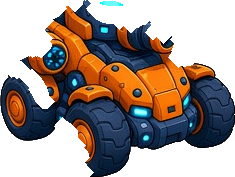
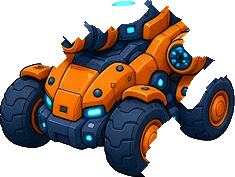
v44: remove code-drawn gun overlays on 성전차 sprites, bullets from sprite cannon tip, unified left-art facing (Lv1-20), Lv1 bigger / robot 27% smaller, remove dashed ring

diff --git a/index.html b/index.html
@@ -305,7 +305,7 @@ function mountPos(k,i){const fw={x:Math.cos(P.ang),y:Math.sin(P.ang)},sd={x:-fw.
 function wUpd(dt){const cd=P.cdMul;
  for(const k in WP){const w=WP[k],L=w.lv,E=w.evo;w.cd-=dt;w.t+=dt;HITSRC=k;
   if(k==='mg')w.mf=Math.max(0,(w.mf||0)-dt);if(k==='mg'&&CAR==='flame')flameUpd(w,L,E,cd,dt);else if(k==='mg'&&w.cd<=0){const n=E?6:L;const ts=nearest(n,420);if(ts.length){w.cd=(E?.16:.42-L*.03)*cd;w.mf=.07;if(G.awk&&!G.robo){G.mfl=.07;const fx=Math.cos(P.ang),fy=Math.sin(P.ang);ts.forEach(t=>{for(const o of[-1,1]){const _t=armTip(o),px=_t.x,py=_t.y;const a=Math.atan2(t.y-py,t.x-px);BUL.push({x:px,y:py,vx:Math.cos(a)*760,vy:Math.sin(a)*760,d:((E?16:9)+L*3)*.55,life:.7,r:5,c:'#E97C29',cap:1,pierce:L-1+(E?1:0)+RK('ap'),src:'mg'});}});sndMG();}else
-   ts.forEach((t,i)=>{const p=E?mg3(i):mountPos('mg',i),a=Math.atan2(t.y-p.y,t.x-p.x)+rnd(-.05,.05);BUL.push({x:p.x,y:p.y,vx:Math.cos(a)*720,vy:Math.sin(a)*720,d:(E?16:9)+L*3,life:.7,r:4*WSZ()*SZB()*GS('mg')*(E?1.4:1),c:E?'#FFB020':'#ffe066',tr:E?1:0,pierce:L-1+(E?1:0)+RK('ap'),src:'mg'});});if(E)sndMG();else sndShot();w.aim=Math.atan2(ts[0].y-P.y,ts[0].x-P.x);}}
+   ts.forEach((t,i)=>{const p=T42ok()?t42Tip():E?mg3(i):mountPos('mg',i),a=Math.atan2(t.y-p.y,t.x-p.x)+rnd(-.05,.05);BUL.push({x:p.x,y:p.y,vx:Math.cos(a)*720,vy:Math.sin(a)*720,d:(E?16:9)+L*3,life:.7,r:4*WSZ()*SZB()*GS('mg')*(E?1.4:1),c:E?'#FFB020':'#ffe066',tr:E?1:0,pierce:L-1+(E?1:0)+RK('ap'),src:'mg'});});if(E)sndMG();else sndShot();w.aim=Math.atan2(ts[0].y-P.y,ts[0].x-P.x);}}
   if(k==='molo'&&w.cd<=0){if(E){const act=POOL.filter(p=>p.src==='molo'&&p.evo).length+SHELL.filter(x=>x.k==='molo').length;if(act>0){w.cd=.1;}else{w.cd=.7;const a0=Math.random()*TAU,d=(10+5*3)*2.4*DMT.molo[4]/DMT.molo[5];for(let i=0;i<5;i++){const a=a0+i/5*TAU,rr=rnd(110,150);SHELL.push({x:P.x,y:P.y,tx:P.x+Math.cos(a)*rr,ty:P.y+Math.sin(a)*rr,t:0,T:.35,k:'molo',evo:1,r:99,dur:2.8,d,src:'molo'});}}}
    else{w.cd=(3.0-L*.1)*cd;const n=L,a0=P.ang+(n===1?0:Math.random()*TAU),R=(45+(L-1)*8)/.92,dur=2.0+(L-1)*.15,nt=Math.floor(dur/.3-1e-6)+1,dm=DMT.molo[L-1];let d=10+L*3,imp=0;if(L<=2){const tot=L===1?24:32,ip=L===1?8:10;imp=ip/dm;d=(tot-ip)/nt/dm;}const ts=nearest(n,230);
    for(let i=0;i<n;i++){let tx,ty;if(ts[i]){tx=ts[i].x+rnd(-10,10);ty=ts[i].y+rnd(-10,10);}else{const a=a0+i/n*TAU,rr=rnd(120,160);tx=P.x+Math.cos(a)*rr;ty=P.y+Math.sin(a)*rr;}SHELL.push({x:P.x,y:P.y,tx,ty,t:0,T:.35,k:'molo',evo:0,r:R,dur,d,imp,src:'molo'});}}}
@@ -784,27 +784,30 @@ function rfMz(){const u=RSH/256,m=RFR.MZ[G.rfF||0];return{x:(RFR.ax-m[0])*u,y:48
 /* awakening time-warp: total stays exactly 3.0s; 2.15-2.75 real -> 2.3-2.6 anim (half-speed slow-mo at core ignition) */
 function AW(t){return t<1?t:t<2.15?1+(t-1)*(1.3/1.15):t<2.75?2.3+(t-2.15)*.5:2.6+(t-2.75)*1.6;}
 // ===== v42 round chibi 성전차 (upright 3/4 sprites, part-based transforms) =====
-const T42={"st": [[233, 278, 116.0, 264], [243, 278, 121.0, 264], [240, 278, 119.5, 266], [261, 278, 130.0, 273], [271, 278, 135.0, 264]], "tr": [{"rest": [-117, -176, 235, 177], "parts": [[-80, -201, 165, 93], [-109, -152, 45, 40], [-63, -59, 40, 60], [-109, -115, 47, 48]], "core": [-4.8, -178.4]}, {"rest": [-116, -197, 232, 186], "parts": [[-76, -218, 188, 126], [-1, -118, 81, 67], [4, -58, 60, 59], [-94, -106, 74, 47]], "core": [98.6, -147.2]}, {"rest": [-112, -213, 234, 214], "parts": [[-126, -260, 215, 240], [31, -209, 96, 140], [-75, -166, 109, 80], [-86, -97, 71, 58]], "core": [-4.5, -197.7]}], "awk": {"r": {"head": [-67.0, -260, 100, 88], "footL": [-115.0, -92, 85, 81], "footR": [-10.0, -86, 75, 87], "armL": [-131.0, -228, 58, 154], "armR": [50.0, -236, 82, 189], "torso": [-73.0, -229, 123, 157]}, "c": {"head": [-55.0, -260, 97, 79], "footL": [-126.0, -98, 121, 85], "footR": [-5.0, -88, 127, 89], "armL": [-126.0, -178, 58, 80], "armR": [55.0, -239, 72, 151], "torso": [-99.0, -237, 154, 149]}}, "mz": [131.0, -79], "ab": [[268, 261, 134.0, 260], [250, 261, 125.0, 260]]};T42.I={};T42.n=0;
+const T42={"st": [[233, 278, 116.0, 264], [243, 278, 121.0, 264], [240, 278, 119.5, 266], [261, 278, 130.0, 273], [271, 278, 135.0, 264]], "tr": [{"rest": [-117, -176, 235, 177], "parts": [[-84, -201, 165, 93], [65, -152, 45, 40], [24, -59, 40, 60], [63, -115, 47, 48]], "core": [4.8, -178.4]}, {"rest": [-116, -202, 232, 203], "parts": [[-76, -218, 120, 111], [30, -212, 82, 78], [-69, -105, 50, 77], [34, -59, 60, 59]], "core": [98.6, -147.2]}, {"rest": [-112, -213, 234, 214], "parts": [[-126, -260, 215, 240], [31, -209, 96, 140], [-75, -166, 109, 80], [-86, -97, 71, 58]], "core": [-4.5, -197.7]}], "awk": {"r": {"head": [-67.0, -260, 100, 88], "footL": [-115.0, -92, 85, 81], "footR": [-10.0, -86, 75, 87], "armL": [-131.0, -228, 58, 154], "armR": [50.0, -236, 82, 189], "torso": [-73.0, -229, 123, 157]}, "c": {"head": [-55.0, -260, 97, 79], "footL": [-126.0, -98, 121, 85], "footR": [-5.0, -88, 127, 89], "armL": [-126.0, -178, 58, 80], "armR": [55.0, -239, 72, 151], "torso": [-99.0, -237, 154, 149]}}, "mz": [131.0, -79], "ab": [[268, 261, 134.0, 260], [250, 261, 125.0, 260]]};T42.I={};T42.n=0;
 ["s0", "s1", "s2", "s3", "s4", "t0r", "t1r", "t2r", "t0p0", "t0p1", "t0p2", "t0p3", "t1p0", "t1p1", "t1p2", "t1p3", "t2p0", "t2p1", "t2p2", "t2p3", "r_head", "r_footL", "r_footR", "r_armL", "r_armR", "r_torso", "c_head", "c_footL", "c_footR", "c_armL", "c_armR", "c_torso","a","b"].forEach(n=>{const im=new Image();im.onload=()=>{T42.n++;};im.src='assets/t42_'+n+'.png';T42.I[n]=im;});
 const T42N=34;function T42ok(){return CAR!=='flame'&&T42.n>=T42N;}
-const T42F=[1,1,1,1,1];/* v43: all stage art faces right (Lv1/5 art mirrored at build) */
-function t42K(r){return r/40.7*.551;}
+const T42F=[-1,-1,-1,-1,-1];/* v44: all 5 stage arts face LEFT (3/4 front-left); mirror when moving right */
+const T42TIP=[[-74,-136],[-76,-134],[-80,-96],[-120,-110]];/* cannon tip px rel. anchor (art facing left) */
+function t42Tip(){const v=G.veh,k=t42K(P.r),q=T42TIP[v],sx=t42Dir(v);return{x:P.x+q[0]*k*sx,y:P.y+P.r*.6+q[1]*k};}
+function t42K(r){return r/40.7*.551*RBS*(1+.78*Math.max(0,Math.min(1,(40.7-r)/18.7)));}/* v44: car up to x1.3 bigger on screen at Lv1, x1.0 at Lv15 (hitbox unchanged) */
 function t42Img(n,rc,k){const im=T42.I[n];cx.drawImage(im,rc[0]*k,rc[1]*k,rc[2]*k,rc[3]*k);}
 function t42Full(v,k){const s=T42.st[v];cx.drawImage(T42.I['s'+v],-s[2]*k,-s[3]*k,s[0]*k,s[1]*k);}
 function t42Dir(v){return (UDIR()>0?1:-1)*T42F[v];}
 function t42Car(fl){const v=G.veh,k=t42K(P.r),sp=Math.hypot(P.vx,P.vy),mv=Math.min(1,sp/120);G.cph=(G.cph||0)+mv*.35;
  const bob=-Math.abs(Math.sin(G.cph))*1.6*mv,tilt=Math.max(-.07,Math.min(.07,(P.vy||0)/2500))*t42Dir(v)+Math.sin(G.cph*.5)*.02*mv;
- cx.save();cx.translate(0,P.r*.8+bob);cx.rotate(tilt);cx.scale(t42Dir(v),1);t42Full(v,k);
- if(fl){cx.globalCompositeOperation='lighter';cx.globalAlpha=.55;t42Full(v,k);}cx.restore();}
+ cx.save();cx.translate(0,P.r*.6+bob);cx.rotate(tilt);cx.scale(t42Dir(v),1);t42Full(v,k);
+ if(fl){cx.save();cx.globalCompositeOperation='lighter';cx.globalAlpha=.55;t42Full(v,k);cx.restore();}
+ const mf=WP.mg?(WP.mg.mf||0):0;if(mf>0){const q=T42TIP[v],x=q[0]*k,y=q[1]*k,g=cx.createRadialGradient(x,y,0,x,y,12);g.addColorStop(0,'rgba(255,255,255,'+(mf/.07)+')');g.addColorStop(.4,'rgba(255,230,120,'+(mf/.07)+')');g.addColorStop(1,'rgba(255,200,80,0)');cx.fillStyle=g;cx.beginPath();cx.arc(x,y,12,0,TAU);cx.fill();}cx.restore();}
 const e3=q=>1-Math.pow(1-q,3),eBk=q=>{const c=.6,p=q-1;return 1+(c+1)*p*p*p+c*p*p;};
 function drawTF42(f){tfEv(f);const u=f.t/f.D*3,v0=G.veh,v1=f.nv,T=T42.tr[v0],cl=(a,b)=>Math.max(0,Math.min(1,(u-a)/(b-a)));
  const R=f.r0+(f.r1-f.r0)*e3(cl(.8,1.7)),k=t42K(R),k0=t42K(f.r0),lift=(e3(cl(0,.4))-e3(cl(2.6,2.9)))*4;
  const np=T.parts.length,lockT=j=>.8+j*.15+.6;
  f.ev2=f.ev2||{};for(let j=0;j<np;j++)if(u>=lockT(j)&&!f.ev2[j]){f.ev2[j]=1;G.shake=Math.max(G.shake,2);beep(900+j*120,.04,'square',.06,600);
-   if(j===0){G.stop=.04;f.t+=.04;}const p=T.parts[j],x=P.x+(p[0]+p[2]/2)*k*t42Dir(v0),y=P.y+P.r*.8+(p[1]+p[3]/2)*k;
+   if(j===0){G.stop=.04;f.t+=.04;}const p=T.parts[j],x=P.x+(p[0]+p[2]/2)*k*t42Dir(v0),y=P.y+P.r*.6+(p[1]+p[3]/2)*k;
    for(let i=0;i<4&&(f.np||0)<20;i++){f.np=(f.np||0)+1;const a=rnd(0,TAU),vv=rnd(60,140);RFX.push({k:'sp',x,y,vx:Math.cos(a)*vv,vy:Math.sin(a)*vv,life:.25,max:.25,s:rnd(1.5,2.6),c:'#9fe0ff'});}}
- cx.fillStyle='rgba(0,0,0,.22)';cx.beginPath();cx.ellipse(P.x,P.y+P.r*.8,R*1.25,R*.38,0,0,TAU);cx.fill();
- cx.save();cx.translate(P.x+(u<.4?Math.sin(u*80)*1.2*cl(0,.3):0),P.y+R*.8-lift);cx.scale(t42Dir(v0),1);
+ cx.fillStyle='rgba(0,0,0,.22)';cx.beginPath();cx.ellipse(P.x,P.y+P.r*.6,R*1.25,R*.38,0,0,TAU);cx.fill();
+ cx.save();cx.translate(P.x+(u<.4?Math.sin(u*80)*1.2*cl(0,.3):0),P.y+R*.6-lift);cx.scale(t42Dir(v0),1);
  if(u<.84){const o=e3(cl(.4,.8));cx.save();cx.globalAlpha=u<.76?1:1-(u-.76)/.08;cx.scale(1+.05*o,1-.03*o);t42Full(v0,k0);cx.restore();}
  if(u>=.76){const a=Math.min(1,(u-.76)/.08),w=u>=1.7&&u<2.3?Math.sin((u-1.7)/.6*Math.PI)*Math.exp(-(u-1.7)*4):0;cx.save();cx.globalAlpha=a;cx.scale(1+.03*w,1-.03*w);
   if(u>=lockT(np-1))t42Full(v1,k);else{t42Img('t'+v0+'r',T.rest,k);
@@ -817,9 +820,9 @@ const A42=['armL','footL','footR','torso','head','armR'],A42S={footL:[-8,10],foo
 function t42AB(n,k){const s=T42.ab[n];cx.drawImage(T42.I[n?'b':'a'],-s[2]*k,-s[3]*k,s[0]*k,s[1]*k);}
 /* v43 awakening: Lv15 -> A -> B -> robot keyframes; 0.08s crossfades + squash settle */
 function drawAwk42(){const r=G.robo,t=r.t,cl=(a,b)=>Math.max(0,Math.min(1,(t-a)/(b-a))),k=t42K(P.r),d=UDIR()>0?1:-1,K=[.7,1.5,2.3];
- const fy=P.r*(.8+.24*e3(cl(.7,2.3))),lift=(e3(cl(0,.35))-e3(cl(2.2,2.35)))*5;
+ const fy=P.r*.6,lift=(e3(cl(0,.35))-e3(cl(2.2,2.35)))*5;
  cx.fillStyle='rgba(0,0,0,.25)';cx.beginPath();cx.ellipse(P.x,P.y+fy,P.r*1.2,P.r*.36,0,0,TAU);cx.fill();
- cx.save();cx.translate(P.x+(t<.7?Math.sin(t*80)*1.2*cl(.1,.6):0),P.y+fy-lift);cx.scale(d,1);
+ cx.save();cx.translate(P.x+(t<.7?Math.sin(t*80)*1.2*cl(.1,.6):0),P.y+fy-lift);cx.scale(-d,1);
  const one=(i,al)=>{if(al<=0)return;cx.save();cx.globalAlpha*=al;let sx=1,sy=1;
   if(i>0){const e=Math.max(0,t-K[i-1]),w=Math.exp(-e*8)*Math.cos(e*24);sx=1+.06*w;sy=1-.07*w;}else{const o=e3(cl(.35,.7));sx=1+.04*o;sy=1-.03*o;}
   cx.scale(sx,sy);if(i===0)t42Full(3,k);else if(i===3)t42Full(4,k);else t42AB(i-1,k);cx.restore();};
@@ -830,8 +833,8 @@ function drawAwk42(){const r=G.robo,t=r.t,cl=(a,b)=>Math.max(0,Math.min(1,(t-a)/
 /* robot: procedural walk on part cutouts (mech units; feet at y=48) */
 function rnDraw(o){const u=RSH/278,mv=G.mvS||0,ph=G.wph||0,s=Math.sin(ph),A=T42.awk.r;
  const lL=Math.max(0,s)*9*mv,lR=Math.max(0,-s)*9*mv,dxL=Math.cos(ph)*6*mv,bodyY=(1-Math.abs(s))*4*mv+(1-mv)*Math.sin(G.t*3)*1.5,til=s*.05*mv;
- if(mv>.3){const sg=s>0?1:-1;if(G.rnS!==sg){G.rnS=sg;const k=UK(),d=UDIR(),b=UBASE(),fx=(sg>0?A.footR:A.footL);const x=b.x+d*(fx[0]+fx[2]/2)*u*k,y=b.y+48*k;for(let i=0;i<2;i++)RFX.push({k:'sm',x:x+rnd(-6,6),y,vx:rnd(-30,30)-d*20,vy:rnd(-12,0),life:.35,max:.35,s:5});}}
- cx.save();cx.translate(0,48);cx.scale(u,u);
+ if(mv>.3){const sg=s>0?1:-1;if(G.rnS!==sg){G.rnS=sg;const k=UK(),d=UDIR(),b=UBASE(),fx=(sg>0?A.footR:A.footL);const x=b.x-d*(fx[0]+fx[2]/2)*u*k,y=b.y+48*k;for(let i=0;i<2;i++)RFX.push({k:'sm',x:x+rnd(-6,6),y,vx:rnd(-30,30)-d*20,vy:rnd(-12,0),life:.35,max:.35,s:5});}}
+ cx.save();cx.translate(0,48);cx.scale(-u,u);/* art faces left */
  const part=(n,dx,dy,rot,px,py)=>{const p=A[n];cx.save();cx.translate(dx,dy);if(rot){cx.translate(px,py);cx.rotate(rot);cx.translate(-px,-py);}cx.drawImage(T42.I['r_'+n],p[0],p[1],p[2],p[3]);cx.restore();};
  part('footL',dxL,-lL,0);part('footR',-dxL,-lR,0);
  cx.save();cx.translate(0,bodyY);cx.translate(0,-90);cx.rotate(til);cx.scale(1,1-.025*(1-Math.abs(s))*mv);cx.translate(0,90);
@@ -841,7 +844,7 @@ function rnDraw(o){const u=RSH/278,mv=G.mvS||0,ph=G.wph||0,s=Math.sin(ph),A=T42.
  cx.restore();
  if(o.fl>0){cx.globalAlpha*=o.fl*.5;cx.globalCompositeOperation='lighter';cx.drawImage(T42.I.s4,-T42.st[4][2],-T42.st[4][3]);}
  cx.restore();}
-function rnMz(){const u=RSH/278;return{x:T42.mz[0]*u,y:48+T42.mz[1]*u};}
+function rnMz(){const u=RSH/278;return{x:-T42.mz[0]*u,y:48+T42.mz[1]*u};}
 // ===== v40 성전차 car sprites (stage 0..3 = Lv1/5/10/15) =====
 const CSP=[].map(i=>{const o={im:new Image()};o.im.onload=()=>{o.ok=1;};o.im.src='assets/car_tank_'+i+'.png';return o;});
 const CSL=[3.4,3.1,3.05,3.0];/* sprite length in units of P.r */
@@ -870,7 +873,8 @@ function drawTFS(f){tfEv(f);const u=f.t/f.D*3,z=zoom(),R0=f.r0,R1=f.r1,v0=G.veh,
    cx.save();cx.globalAlpha=1-q;cx.translate(x,y);cx.rotate(q*(i%2?4:-4));cx.drawImage(im,sx,sy,cw,ch,-L*.1,-h*.1,L*.2,h*.2);cx.restore();}}
  cx.restore();}
 // ===== v35 upright robot (side-flipping, Survivor.io style) =====
-function UK(){return P.r*2.6/76;}
+const RBS=.73;/* v44: robot ~27% smaller on screen (hitbox unchanged) */
+function UK(){return P.r*2.6/76*(CAR!=='flame'&&typeof T42ok==='function'&&T42ok()?RBS:1);}
 function UDIR(){const c=Math.cos(P.ang);if(G.udir==null)G.udir=c<0?-1:1;if(c>.2)G.udir=1;else if(c<-.2)G.udir=-1;return G.udir;}
 function UBASE(){return{x:P.x,y:P.y-P.r*.6};}
 function uAim(){const fl=CAR==='flame';return fl?(G.flm&&G.flm.al>0?G.flm.a:P.ang):(WP.mg&&WP.mg.aim!=null?WP.mg.aim:P.ang);}
@@ -965,18 +969,18 @@ function vehicleCar(){const s=P.r/22;cx.save();cx.translate(P.x,P.y);if(G.spike>
   for(const y of[-1,1]){cx.fillStyle=blue2;cx.beginPath();cx.arc(R0*.15,y*R0*.66,R0*.3,0,TAU);cx.fill();cx.fillStyle=gold;cx.beginPath();cx.arc(R0*.15,y*R0*.66,R0*.22,0,TAU);cx.fill();}
   // rune core
   const cg=cx.createRadialGradient(0,0,1,0,0,R0*.32);cg.addColorStop(0,'#ffffff');cg.addColorStop(.4,'#8fe3ff');cg.addColorStop(1,'rgba(61,127,217,0)');cx.fillStyle=cg;cx.globalAlpha=.75+Math.sin(G.t*6)*.25;cx.beginPath();cx.arc(-R0*.2,0,R0*.32,0,TAU);cx.fill();cx.globalAlpha=1;}
- vehDeco();}
+ if(!T42ok())vehDeco();}
  // parts
  const L=P.r;
  drawPips(L);
- if(WP.ram){const E=WP.ram.evo;cx.save();const sw=RAMW()/(L*.45),sd2=1+.35*(RAMS()-1);cx.translate(L*.85,0);cx.scale(sd2,sw);cx.translate(-L*.85,0);cx.fillStyle=E?'#b8c0cc':'#8a6a3a';if(E){cx.save();cx.translate(L*.95,0);cx.beginPath();cx.moveTo(0,-L*.4);cx.lineTo(L*.95,0);cx.lineTo(0,L*.4);cx.fill();cx.strokeStyle='#6a7280';cx.lineWidth=2;for(let i=0;i<4;i++){const o=((G.t*80+i*12)%(L*.8));cx.beginPath();cx.moveTo(o,-L*.4*(1-o/L/.95));cx.lineTo(o+6,L*.4*(1-o/L/.95));cx.stroke();}cx.restore();}
+ if(!T42ok())if(WP.ram){const E=WP.ram.evo;cx.save();const sw=RAMW()/(L*.45),sd2=1+.35*(RAMS()-1);cx.translate(L*.85,0);cx.scale(sd2,sw);cx.translate(-L*.85,0);cx.fillStyle=E?'#b8c0cc':'#8a6a3a';if(E){cx.save();cx.translate(L*.95,0);cx.beginPath();cx.moveTo(0,-L*.4);cx.lineTo(L*.95,0);cx.lineTo(0,L*.4);cx.fill();cx.strokeStyle='#6a7280';cx.lineWidth=2;for(let i=0;i<4;i++){const o=((G.t*80+i*12)%(L*.8));cx.beginPath();cx.moveTo(o,-L*.4*(1-o/L/.95));cx.lineTo(o+6,L*.4*(1-o/L/.95));cx.stroke();}cx.restore();}
   else{rr(L*.85,-L*.45,L*.25,L*.9,4);cx.fill();cx.fillStyle='#c0c6cf';for(const y of[-.3,0,.3]){cx.beginPath();cx.moveTo(L*1.1,y*L-5);cx.lineTo(L*1.35,y*L);cx.lineTo(L*1.1,y*L+5);cx.fill();}}cx.restore();}
- if(WP.molo){const E=WP.molo.evo;for(const y of[-.45,.45]){cx.fillStyle='#555';rr(-L*1.1,y*L-4,L*.35,8,3);cx.fill();if(E){cx.fillStyle=(G.t*20|0)%2?'#ffb03a':'#ff6a2a';cx.beginPath();cx.moveTo(-L*1.1,y*L-5);cx.lineTo(-L*1.5-rnd(0,8),y*L);cx.lineTo(-L*1.1,y*L+5);cx.fill();}else{cx.fillStyle='#7ad06a';cx.fillRect(-L*.8,y*L-3,6,6);}}}
- if(WP.coil){const E=WP.coil.evo,F=G.veh>=2,ox=F?-L*.2:-L*.33,oy=F?0:-L*.6;if(!F){cx.fillStyle='#777';cx.fillRect(-L*.35,-L*.55,4,L*.3);}cx.fillStyle=E?'#bff':'#6cf';cx.beginPath();cx.arc(ox,oy,(E?7:4)+(F?2:0),0,TAU);cx.fill();if(E||F){cx.strokeStyle='rgba(180,240,255,.8)';cx.lineWidth=2;cx.beginPath();cx.arc(ox,oy,10+(F?4:0)+Math.sin(G.t*20)*3,0,TAU);cx.stroke();}}
- if(WP.mortar){const F=G.veh>=2,mx=F?-L*.9:-L*.35,my=F?0:L*.3,mr=(WP.mortar.evo?9:6)+(F?3:0);cx.fillStyle='#4a4a52';cx.beginPath();cx.arc(mx,my,mr,0,TAU);cx.fill();cx.fillStyle='#222';cx.beginPath();cx.arc(mx,my,mr*.55,0,TAU);cx.fill();}
- if(WP.laser){cx.fillStyle='#d96cff';cx.beginPath();cx.arc(L*.3,L*.45,WP.laser.evo?7:5,0,TAU);cx.fill();}
+ if(!T42ok())if(WP.molo){const E=WP.molo.evo;for(const y of[-.45,.45]){cx.fillStyle='#555';rr(-L*1.1,y*L-4,L*.35,8,3);cx.fill();if(E){cx.fillStyle=(G.t*20|0)%2?'#ffb03a':'#ff6a2a';cx.beginPath();cx.moveTo(-L*1.1,y*L-5);cx.lineTo(-L*1.5-rnd(0,8),y*L);cx.lineTo(-L*1.1,y*L+5);cx.fill();}else{cx.fillStyle='#7ad06a';cx.fillRect(-L*.8,y*L-3,6,6);}}}
+ if(!T42ok())if(WP.coil){const E=WP.coil.evo,F=G.veh>=2,ox=F?-L*.2:-L*.33,oy=F?0:-L*.6;if(!F){cx.fillStyle='#777';cx.fillRect(-L*.35,-L*.55,4,L*.3);}cx.fillStyle=E?'#bff':'#6cf';cx.beginPath();cx.arc(ox,oy,(E?7:4)+(F?2:0),0,TAU);cx.fill();if(E||F){cx.strokeStyle='rgba(180,240,255,.8)';cx.lineWidth=2;cx.beginPath();cx.arc(ox,oy,10+(F?4:0)+Math.sin(G.t*20)*3,0,TAU);cx.stroke();}}
+ if(!T42ok())if(WP.mortar){const F=G.veh>=2,mx=F?-L*.9:-L*.35,my=F?0:L*.3,mr=(WP.mortar.evo?9:6)+(F?3:0);cx.fillStyle='#4a4a52';cx.beginPath();cx.arc(mx,my,mr,0,TAU);cx.fill();cx.fillStyle='#222';cx.beginPath();cx.arc(mx,my,mr*.55,0,TAU);cx.fill();}
+ if(!T42ok())if(WP.laser){cx.fillStyle='#d96cff';cx.beginPath();cx.arc(L*.3,L*.45,WP.laser.evo?7:5,0,TAU);cx.fill();}
  cx.restore();
- if(WP.mg){const E=WP.mg.evo,F=G.veh>=2,n=F?(E?3:2):(E?3:1),a=WP.mg.aim??P.ang;for(let i=0;i<n;i++){const off=F?(n===2?(i?1:-1)*L*.66:(i-1)*L*.66):(i-(n-1)/2)*L*.45,px=P.x+Math.cos(P.ang+Math.PI/2)*off+Math.cos(P.ang)*L*.15,py=P.y+Math.sin(P.ang+Math.PI/2)*off+Math.sin(P.ang)*L*.15;
+ if(!T42ok())if(WP.mg){const E=WP.mg.evo,F=G.veh>=2,n=F?(E?3:2):(E?3:1),a=WP.mg.aim??P.ang;for(let i=0;i<n;i++){const off=F?(n===2?(i?1:-1)*L*.66:(i-1)*L*.66):(i-(n-1)/2)*L*.45,px=P.x+Math.cos(P.ang+Math.PI/2)*off+Math.cos(P.ang)*L*.15,py=P.y+Math.sin(P.ang+Math.PI/2)*off+Math.sin(P.ang)*L*.15;
   cx.save();cx.translate(px,py);cx.rotate(a);const mf=F?(WP.mg.mf||0):0;if(mf>0)cx.translate(-3*mf/.07,0);cx.fillStyle='#2a5aa8';cx.beginPath();cx.arc(0,0,7+G.veh,0,TAU);cx.fill();cx.fillStyle='#333';cx.fillRect(4,-2.5,14+G.veh*3,5);if(E||F)cx.fillRect(4,-6,12+G.veh*2,3);if(mf>0){const bl=18+G.veh*3+4;cx.fillStyle='rgba(255,230,120,'+(mf/.07)+')';cx.beginPath();cx.moveTo(bl,-7);cx.lineTo(bl+16,0);cx.lineTo(bl,7);cx.closePath();cx.fill();cx.fillStyle='#fff';cx.beginPath();cx.arc(bl+2,0,3.5,0,TAU);cx.fill();}cx.restore();}}
  if(!HIDEB())for(const k of['drone','saw'])if(WP[k]&&WP[k].pos)for(const p of WP[k].pos){cx.save();cx.translate(p.x,p.y);if(k==='drone'){const E=WP.drone.evo;cx.scale(VIS('drone'),VIS('drone'));cx.fillStyle='rgba(0,0,0,.15)';cx.beginPath();cx.ellipse(4,14,10,4,0,0,TAU);cx.fill();cx.fillStyle=E?'#f2c544':'#9ab';rr(-9,-9,18,18,E?3:9);cx.fill();cx.fillStyle=E?'#3d7fd9':'#567';cx.fillRect(-4,-4,8,8);if(E){cx.fillStyle='#333';cx.fillRect(-12,-2,24,4);}cx.strokeStyle='rgba(255,255,255,.6)';cx.beginPath();cx.ellipse(0,-11,12,3,G.t*20,0,TAU);cx.stroke();}
   else{const E=WP.saw.evo,r=11*GS('saw')*WSZ()*SZA()*(E?1.4:1)*VSC('saw');cx.rotate(G.t*18);cx.fillStyle='#8f9aa4';cx.strokeStyle='#3e464e';cx.lineWidth=2;cx.beginPath();for(let i=0;i<16;i++){const a=i/16*TAU,q=i%2?r:r*.72;cx.lineTo(Math.cos(a)*q,Math.sin(a)*q);}cx.closePath();cx.fill();cx.stroke();cx.fillStyle=E?'#f2c544':'#888';cx.beginPath();cx.arc(0,0,r*.3,0,TAU);cx.fill();}cx.restore();}}
@@ -1003,7 +1007,7 @@ function draw(){const z=zoom(),v=viewHalf();VV=v;cx.save();cx.fillStyle='#000';c
  drawTall(v);
  if(!HD)drawBeams();
  if(G.tf)drawTF();else vehicle();rfxDraw();
- if(G.veh>=3&&!HIDEB()){cx.save();cx.strokeStyle='rgba(255,210,74,.55)';cx.lineWidth=3;cx.setLineDash([10,8]);cx.beginPath();cx.arc(P.x,P.y,P.r*1.35,G.t,G.t+TAU);cx.stroke();cx.setLineDash([]);cx.restore();}
+ if(false&&G.veh>=3&&!HIDEB()){cx.save();cx.strokeStyle='rgba(255,210,74,.55)';cx.lineWidth=3;cx.setLineDash([10,8]);cx.beginPath();cx.arc(P.x,P.y,P.r*1.35,G.t,G.t+TAU);cx.stroke();cx.setLineDash([]);cx.restore();}
  if(SH.lv&&!HD){for(let i=0;i<SH.ch.length;i++){const rd=SH.ch[i]<=0,rr2=P.r*1.55+i*9;cx.save();cx.lineWidth=4;if(rd){cx.globalAlpha=.75+.2*Math.sin(G.t*5+i);cx.strokeStyle='#8fe3ff';cx.shadowColor='#4ad6ff';cx.shadowBlur=8;cx.beginPath();cx.arc(P.x,P.y,rr2,0,TAU);cx.stroke();}else{cx.globalAlpha=.3;cx.strokeStyle='#8fe3ff';cx.setLineDash([4,6]);cx.beginPath();cx.arc(P.x,P.y,rr2,-Math.PI/2,-Math.PI/2+TAU*(1-SH.ch[i]/10));cx.stroke();cx.setLineDash([]);}cx.restore();}}
  if(!HD&&P.dash<=0&&P.shEnd&&G.t<P.shEnd){const rr2=P.r*1.7+Math.sin(G.t*12)*2;cx.save();cx.globalAlpha=.35;cx.strokeStyle='#ffe27a';cx.lineWidth=5;cx.beginPath();cx.arc(P.x,P.y,rr2,0,TAU);cx.stroke();cx.fillStyle='#fff6c0';cx.globalAlpha=.08;cx.fill();cx.restore();}
  if(G.revGlow>0){const k=G.revGlow/1.2;cx.save();const gr=cx.createRadialGradient(P.x,P.y,4,P.x,P.y,P.r*4);gr.addColorStop(0,'rgba(255,240,170,'+(.8*k)+')');gr.addColorStop(.4,'rgba(255,200,80,'+(.4*k)+')');gr.addColorStop(1,'rgba(255,200,80,0)');cx.fillStyle=gr;cx.beginPath();cx.arc(P.x,P.y,P.r*4,0,TAU);cx.fill();cx.restore();}
